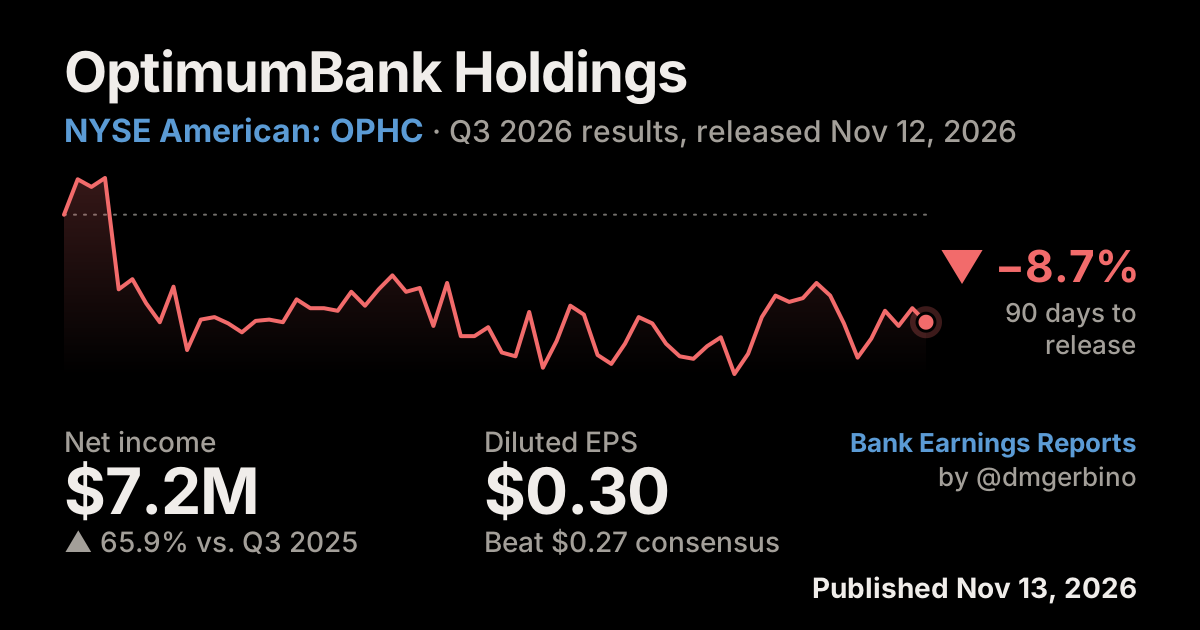
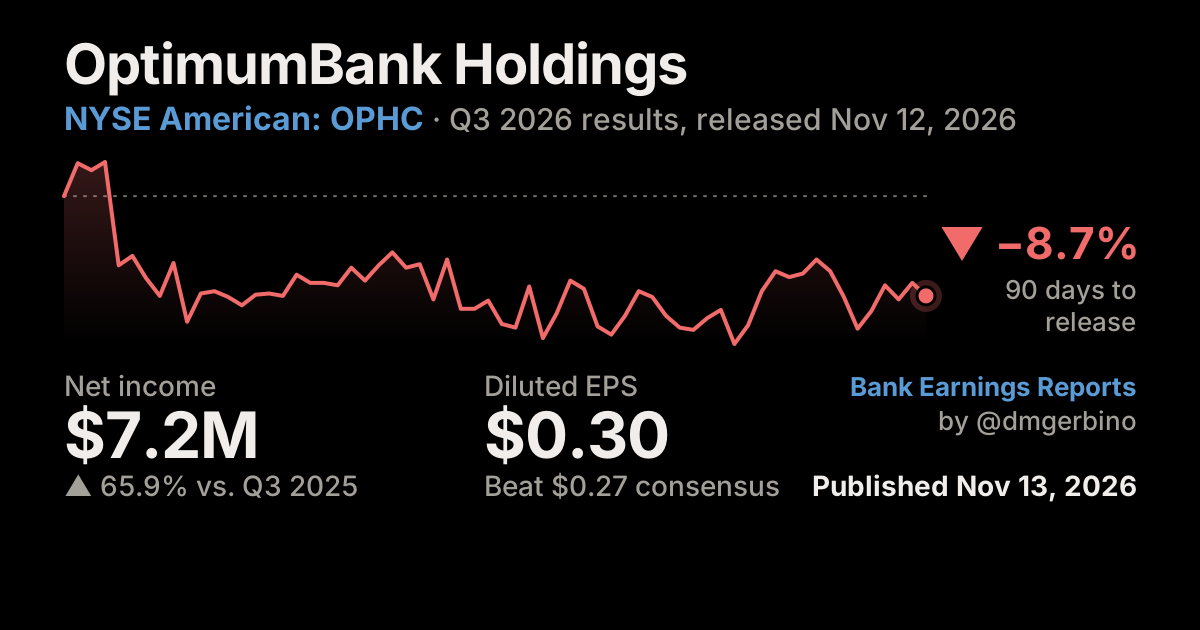
Keep the bottom of every share card clear for X
X overlays the site domain on the bottom of large-image cards. Move all
card content above a 96 px empty band (SAFE_BOTTOM in scripts/og.py), refuse
renders that enter it, and add a card version to og:image so caches refresh.

diff --git a/wsbf-q3-2026/index.html b/wsbf-q3-2026/index.html
@@ -4,14 +4,14 @@
 <meta property="og:title" content="Waterstone Financial (WSBF) Q3 2026 earnings">
 <meta property="og:description" content="The margin rose a fifth straight quarter, but a mortgage loss cut EPS 20% and left Waterstone last of four Wisconsin peers">
 <meta property="og:url" content="https://dmgerbino.github.io/bank-earnings-reports/wsbf-q3-2026/">
-<meta property="og:image" content="https://dmgerbino.github.io/bank-earnings-reports/wsbf-q3-2026/og.png?v=2026-11-14">
+<meta property="og:image" content="https://dmgerbino.github.io/bank-earnings-reports/wsbf-q3-2026/og.png?v=2026-11-14-2">
 <meta property="og:image:width" content="1200">
 <meta property="og:image:height" content="630">
 <meta property="og:image:alt" content="Waterstone Financial Q3 2026 earnings card: price chart, net income and EPS">
 <meta name="twitter:card" content="summary_large_image">
 <meta name="twitter:title" content="Waterstone Financial (WSBF) Q3 2026 earnings">
 <meta name="twitter:description" content="The margin rose a fifth straight quarter, but a mortgage loss cut EPS 20% and left Waterstone last of four Wisconsin peers">
-<meta name="twitter:image" content="https://dmgerbino.github.io/bank-earnings-reports/wsbf-q3-2026/og.png?v=2026-11-14">
+<meta name="twitter:image" content="https://dmgerbino.github.io/bank-earnings-reports/wsbf-q3-2026/og.png?v=2026-11-14-2">
 <meta name="twitter:image:alt" content="Waterstone Financial Q3 2026 earnings card: price chart, net income and EPS">
 <!-- /pub:og -->
 </head><body>

diff --git a/pnc-q3-2026/index.html b/pnc-q3-2026/index.html
@@ -4,14 +4,14 @@
 <meta property="og:title" content="PNC Financial Services Group (PNC) Q3 2026 earnings">
 <meta property="og:description" content="PNC beat on EPS with the lowest charge-offs of six super-regional peers, but it carries the thinnest capital">
 <meta property="og:url" content="https://dmgerbino.github.io/bank-earnings-reports/pnc-q3-2026/">
-<meta property="og:image" content="https://dmgerbino.github.io/bank-earnings-reports/pnc-q3-2026/og.png?v=2026-11-13">
+<meta property="og:image" content="https://dmgerbino.github.io/bank-earnings-reports/pnc-q3-2026/og.png?v=2026-11-13-2">
 <meta property="og:image:width" content="1200">
 <meta property="og:image:height" content="630">
 <meta property="og:image:alt" content="PNC Financial Services Group Q3 2026 earnings card: price chart, net income and EPS">
 <meta name="twitter:card" content="summary_large_image">
 <meta name="twitter:title" content="PNC Financial Services Group (PNC) Q3 2026 earnings">
 <meta name="twitter:description" content="PNC beat on EPS with the lowest charge-offs of six super-regional peers, but it carries the thinnest capital">
-<meta name="twitter:image" content="https://dmgerbino.github.io/bank-earnings-reports/pnc-q3-2026/og.png?v=2026-11-13">
+<meta name="twitter:image" content="https://dmgerbino.github.io/bank-earnings-reports/pnc-q3-2026/og.png?v=2026-11-13-2">
 <meta name="twitter:image:alt" content="PNC Financial Services Group Q3 2026 earnings card: price chart, net income and EPS">
 <!-- /pub:og -->
 </head><body>

diff --git a/byfc-q3-2026/index.html b/byfc-q3-2026/index.html
@@ -4,14 +4,14 @@
 <meta property="og:title" content="Broadway Financial (BYFC) Q3 2026 earnings">
 <meta property="og:description" content="Deposits grew 31% in a year, but Broadway had the thinnest margin and second-highest cost ratio among similar-size peers">
 <meta property="og:url" content="https://dmgerbino.github.io/bank-earnings-reports/byfc-q3-2026/">
-<meta property="og:image" content="https://dmgerbino.github.io/bank-earnings-reports/byfc-q3-2026/og.png?v=2026-11-14">
+<meta property="og:image" content="https://dmgerbino.github.io/bank-earnings-reports/byfc-q3-2026/og.png?v=2026-11-14-2">
 <meta property="og:image:width" content="1200">
 <meta property="og:image:height" content="630">
 <meta property="og:image:alt" content="Broadway Financial Q3 2026 earnings card: price chart, net income and EPS">
 <meta name="twitter:card" content="summary_large_image">
 <meta name="twitter:title" content="Broadway Financial (BYFC) Q3 2026 earnings">
 <meta name="twitter:description" content="Deposits grew 31% in a year, but Broadway had the thinnest margin and second-highest cost ratio among similar-size peers">
-<meta name="twitter:image" content="https://dmgerbino.github.io/bank-earnings-reports/byfc-q3-2026/og.png?v=2026-11-14">
+<meta name="twitter:image" content="https://dmgerbino.github.io/bank-earnings-reports/byfc-q3-2026/og.png?v=2026-11-14-2">
 <meta name="twitter:image:alt" content="Broadway Financial Q3 2026 earnings card: price chart, net income and EPS">
 <!-- /pub:og -->
 </head><body>

diff --git a/pnbk-q3-2026/index.html b/pnbk-q3-2026/index.html
@@ -4,14 +4,14 @@
 <meta property="og:title" content="Patriot National Bancorp (PNBK) Q3 2026 earnings">
 <meta property="og:description" content="Net interest income more than doubled, but expenses still ate 94 cents of every revenue dollar">
 <meta property="og:url" content="https://dmgerbino.github.io/bank-earnings-reports/pnbk-q3-2026/">
-<meta property="og:image" content="https://dmgerbino.github.io/bank-earnings-reports/pnbk-q3-2026/og.png?v=2026-11-13">
+<meta property="og:image" content="https://dmgerbino.github.io/bank-earnings-reports/pnbk-q3-2026/og.png?v=2026-11-13-2">
 <meta property="og:image:width" content="1200">
 <meta property="og:image:height" content="630">
 <meta property="og:image:alt" content="Patriot National Bancorp Q3 2026 earnings card: price chart, net income and EPS">
 <meta name="twitter:card" content="summary_large_image">
 <meta name="twitter:title" content="Patriot National Bancorp (PNBK) Q3 2026 earnings">
 <meta name="twitter:description" content="Net interest income more than doubled, but expenses still ate 94 cents of every revenue dollar">
-<meta name="twitter:image" content="https://dmgerbino.github.io/bank-earnings-reports/pnbk-q3-2026/og.png?v=2026-11-13">
+<meta name="twitter:image" content="https://dmgerbino.github.io/bank-earnings-reports/pnbk-q3-2026/og.png?v=2026-11-13-2">
 <meta name="twitter:image:alt" content="Patriot National Bancorp Q3 2026 earnings card: price chart, net income and EPS">
 <!-- /pub:og -->
 </head><body>

diff --git a/ophc-q3-2026/index.html b/ophc-q3-2026/index.html
@@ -4,14 +4,14 @@
 <meta property="og:title" content="OptimumBank Holdings (OPHC) Q3 2026 earnings">
 <meta property="og:description" content="Record quarter beat the Street, and OPHC led every Florida peer on growth, margin and efficiency">
 <meta property="og:url" content="https://dmgerbino.github.io/bank-earnings-reports/ophc-q3-2026/">
-<meta property="og:image" content="https://dmgerbino.github.io/bank-earnings-reports/ophc-q3-2026/og.png?v=2026-11-13">
+<meta property="og:image" content="https://dmgerbino.github.io/bank-earnings-reports/ophc-q3-2026/og.png?v=2026-11-13-2">
 <meta property="og:image:width" content="1200">
 <meta property="og:image:height" content="630">
 <meta property="og:image:alt" content="OptimumBank Holdings Q3 2026 earnings card: price chart, net income and EPS">
 <meta name="twitter:card" content="summary_large_image">
 <meta name="twitter:title" content="OptimumBank Holdings (OPHC) Q3 2026 earnings">
 <meta name="twitter:description" content="Record quarter beat the Street, and OPHC led every Florida peer on growth, margin and efficiency">
-<meta name="twitter:image" content="https://dmgerbino.github.io/bank-earnings-reports/ophc-q3-2026/og.png?v=2026-11-13">
+<meta name="twitter:image" content="https://dmgerbino.github.io/bank-earnings-reports/ophc-q3-2026/og.png?v=2026-11-13-2">
 <meta name="twitter:image:alt" content="OptimumBank Holdings Q3 2026 earnings card: price chart, net income and EPS">
 <!-- /pub:og -->
 </head><body>

diff --git a/index.html b/index.html
@@ -9,14 +9,14 @@
 <meta property="og:title" content="Bank Earnings Reports">
 <meta property="og:description" content="Quarterly earnings from U.S. banks, each with a report, an infographic and a short narrated video.">
 <meta property="og:url" content="https://dmgerbino.github.io/bank-earnings-reports/">
-<meta property="og:image" content="https://dmgerbino.github.io/bank-earnings-reports/og.png">
+<meta property="og:image" content="https://dmgerbino.github.io/bank-earnings-reports/og.png?v=2">
 <meta property="og:image:width" content="1200">
 <meta property="og:image:height" content="630">
 <meta property="og:image:alt" content="Bank Earnings Reports by @dmgerbino">
 <meta name="twitter:card" content="summary_large_image">
 <meta name="twitter:title" content="Bank Earnings Reports">
 <meta name="twitter:description" content="Quarterly earnings from U.S. banks, each with a report, an infographic and a short narrated video.">
-<meta name="twitter:image" content="https://dmgerbino.github.io/bank-earnings-reports/og.png">
+<meta name="twitter:image" content="https://dmgerbino.github.io/bank-earnings-reports/og.png?v=2">
 <meta name="twitter:image:alt" content="Bank Earnings Reports by @dmgerbino">
 <!-- /pub:og -->
 <style>

diff --git a/scripts/og.py b/scripts/og.py
@@ -29,6 +29,13 @@ ROOT = os.path.dirname(os.path.dirname(os.path.abspath(__file__)))
 PRICES = os.path.join(ROOT, "data", "prices")
 W, H = 1200, 630
 PAD = 64
+# X (Twitter) lays the site domain over the bottom of a summary_large_image card,
+# so the bottom SAFE_BOTTOM px stay plain background: no text, no chart.
+SAFE_BOTTOM = 96
+CONTENT_BOTTOM = H - SAFE_BOTTOM
+# Bump when the card layout changes, so the ?v= on og:image changes and social
+# sites fetch the new image instead of their cached copy.
+CARD_VERSION = "2"
 WINDOW_DAYS = 90
 
 # Site dark tokens (index.html), pure black per the branding guide.
@@ -50,9 +57,23 @@ def text(x, y, s, size, fill=FG, weight=400, anchor="start", ls=0):
 
 
 def svg_doc(body):
+    check_safe_band(body)
     return (f'<svg xmlns="http://www.w3.org/2000/svg" width="{W}" height="{H}" '
             f'viewBox="0 0 {W} {H}"><rect width="{W}" height="{H}" fill="{BG}"/>'
             f'{body}</svg>')
+
+
+def check_safe_band(body):
+    """Refuse any text baseline or chart point inside the bottom band X covers."""
+    import re
+    limit = CONTENT_BOTTOM - 12  # leave room for descenders
+    ys = [float(y) for y in re.findall(r'<text[^>]* y="([\d.]+)"', body)]
+    ys += [float(y) for y in re.findall(r'\by[12]?="([\d.]+)"', body)]
+    ys += [float(y) for y in re.findall(r'[ML]\s*[\d.]+,([\d.]+)', body)]
+    ys += [float(c) + float(r) for c, r in re.findall(r'cy="([\d.]+)" r="([\d.]+)"', body)]
+    bad = [y for y in ys if y > limit]
+    if bad:
+        raise ValueError(f"Card content at y={max(bad):.0f} enters the bottom {SAFE_BOTTOM}px kept clear for X.")
 
 
 def fmt_date(d):
@@ -74,15 +95,15 @@ def render(svg, png_path):
 # ---------------------------------------------------------------- brand card
 def brand_card():
     b = []
-    b.append(f'<rect x="{PAD}" y="{PAD}" width="8" height="250" rx="4" fill="{ACCENT}"/>')
-    b.append(text(PAD + 40, 150, "Bank Earnings", 104, weight=700, ls=-2))
-    b.append(text(PAD + 40, 262, "Reports", 104, weight=700, ls=-2))
-    b.append(text(PAD + 40, 350, "U.S. bank earnings, charted against", 40, MUTED))
-    b.append(text(PAD + 40, 400, "estimates and peers.", 40, MUTED))
-    b.append(text(PAD + 40, 468, "Report  ·  Infographic  ·  Narrated video", 30, FG, 500))
-    b.append(f'<line x1="{PAD}" y1="520" x2="{W-PAD}" y2="520" stroke="{RULE}" stroke-width="2"/>')
-    b.append(text(PAD, 578, "By @dmgerbino", 30, FG, 600))
-    b.append(text(W - PAD, 578, SITE, 30, ACCENT, 500, "end"))
+    b.append(f'<rect x="{PAD}" y="52" width="8" height="226" rx="4" fill="{ACCENT}"/>')
+    b.append(text(PAD + 40, 134, "Bank Earnings", 100, weight=700, ls=-2))
+    b.append(text(PAD + 40, 242, "Reports", 100, weight=700, ls=-2))
+    b.append(text(PAD + 40, 318, "U.S. bank earnings, charted against", 38, MUTED))
+    b.append(text(PAD + 40, 364, "estimates and peers.", 38, MUTED))
+    b.append(text(PAD + 40, 420, "Report  ·  Infographic  ·  Narrated video", 30, FG, 500))
+    b.append(f'<line x1="{PAD}" y1="448" x2="{W-PAD}" y2="448" stroke="{RULE}" stroke-width="2"/>')
+    b.append(text(PAD, 500, "By @dmgerbino", 30, FG, 600))
+    b.append(text(W - PAD, 500, SITE, 30, ACCENT, 500, "end"))
     return svg_doc("".join(b))
 
 
@@ -142,14 +163,14 @@ def bank_card(c, updated=None):
     """c: name, exchange, ticker, quarter, released (date), published (date), closes,
     net_income, net_income_note, [net_income_label], [eps, eps_note, eps_label]."""
     b = []
-    b.append(text(PAD, 92, c["name"], round(fit(c["name"], 56, W - 2 * PAD), 1), weight=700, ls=-1))
-    b.append(f'<text x="{PAD}" y="142" font-family="{FONT}" font-size="32">'
+    b.append(text(PAD, 84, c["name"], round(fit(c["name"], 56, W - 2 * PAD), 1), weight=700, ls=-1))
+    b.append(f'<text x="{PAD}" y="130" font-family="{FONT}" font-size="32">'
              f'<tspan fill="{ACCENT}" font-weight="600">{escape(c["exchange"])}: {escape(c["ticker"])}</tspan>'
              f'<tspan fill="{MUTED}" font-size="30"> · {escape(c["quarter"])} results, released '
              f'{escape(fmt_date(c["released"]))}</tspan></text>')
 
     # Sparkline, with its change label on the right.
-    sx0, sy0, sw, sh = PAD, 178, W - 2 * PAD - 210, 196
+    sx0, sy0, sw, sh = PAD, 162, W - 2 * PAD - 210, 182
     spark, chg, col = sparkline(c["closes"], sx0, sy0, sw, sh)
     b.append(spark)
     arrow = "▲" if chg >= 0 else "▼"
@@ -158,7 +179,7 @@ def bank_card(c, updated=None):
     b.append(text(W - PAD, sy0 + sh / 2 + 78, "release", 26, MUTED, 400, "end"))
 
     # Numbers: net income always, EPS vs consensus only when one exists.
-    ny = 452
+    ny = 396
     b.append(text(PAD, ny, c.get("net_income_label") or "Net income", 28, MUTED, 500))
     b.append(text(PAD, ny + 62, c["net_income"], 64, FG, 700, ls=-1))
     b.append(text(PAD, ny + 100, c["net_income_note"], 28, MUTED))
@@ -169,7 +190,7 @@ def bank_card(c, updated=None):
         b.append(text(ex, ny + 100, c.get("eps_note", ""), 28, MUTED))
 
     # Footer: dates and site.
-    fy = 598
+    fy = ny + 100  # level with the net income note line
     if updated:
         b.append(text(W - PAD, fy - 34, f"Updated {fmt_date(updated)}", 28, FG, 600, "end"))
         b.append(text(W - PAD, fy, f'First published {fmt_date(c["published"])}', 24, MUTED, 400, "end"))

diff --git a/scripts/publish.py b/scripts/publish.py
@@ -217,9 +217,16 @@ def bank_og(slug, row):
               f"Run: python3 scripts/og.py {slug}", file=sys.stderr)
         return ""
     v = row.get("updated") or row.get("added") or row["released"]
+    v = f"{v}-{card_version()}"
     title = f'{row["bank"]} ({row["ticker"]}) {row["quarter"]} earnings'
     return og_tags(title, row["headline"], f"{SITE_URL}{slug}/", f"{SITE_URL}{slug}/og.png?v={v}",
                    f'{row["bank"]} {row["quarter"]} earnings card: price chart, net income and EPS')
+
+
+def card_version():
+    """CARD_VERSION from scripts/og.py, read as text so pages build without cairosvg."""
+    m = re.search(r'^CARD_VERSION = "([^"]+)"', open(os.path.join(ROOT, "scripts", "og.py")).read(), re.M)
+    return m.group(1) if m else "1"
 
 
 def render_cards(rows, slugs=(), force=False):
@@ -257,7 +264,7 @@ def build_index(rows):
 <meta name="viewport" content="width=device-width,initial-scale=1,viewport-fit=cover">
 <title>{SITE_TITLE}</title>
 <meta name="description" content="{SITE_DESC}">
-{og_tags(SITE_TITLE, SITE_DESC, SITE_URL, SITE_URL + "og.png", "Bank Earnings Reports by @dmgerbino", "website")}
+{og_tags(SITE_TITLE, SITE_DESC, SITE_URL, SITE_URL + "og.png?v=" + card_version(), "Bank Earnings Reports by @dmgerbino", "website")}
 <style>
 :root{{--bg:#F6F7F9;--surface:#FFFFFF;--fg:#11161C;--muted:#56606C;--rule:#D9DEE4;--accent:#2A6DB0;color-scheme:light}}
 @media (prefers-color-scheme:dark){{:root:not([data-theme="light"]){{--bg:#000000;--surface:#0D0F12;--fg:#F0EDEA;--muted:#A39F99;--rule:#25292E;--accent:#5B9BD5;color-scheme:dark}}}}

diff --git a/README.md b/README.md
@@ -64,7 +64,9 @@ Rules for the card's figures, all checked against the bank's own release:
 - `--eps`, `--eps-label`, `--eps-note`: only when a current pre-release consensus exists for the quarter, on the same basis (`Adjusted EPS` vs an adjusted consensus, `Diluted EPS` vs a GAAP one). Leave them out when there is none or it looks stale; `--no-eps` drops a line given earlier.
 - `--prices`: a CSV with header `date,close` covering at least the 90 calendar days to the release date. Shell downloads from most price sites are blocked here, so read the closes from Yahoo Finance's historical prices page (or another reliable public source), save them as the CSV, and add a row to `data/prices/SOURCES.md`.
 
-Rendering needs `cairosvg` (`python3 -m pip install cairosvg`) and the Inter font. `python3 scripts/publish.py og` re-renders every card and rebuilds the pages; `--slug <slug>` re-renders one. `build` renders any card that is missing. Social sites cache images, so the tags add `?v=<date>` to the image URL; it changes when a report is updated.
+Keep the bottom of every card empty. X lays the site domain over the bottom of a large-image card, so `SAFE_BOTTOM` in `scripts/og.py` (96 px of the 630) stays plain background: no text, no chart. The generator refuses to render a card that puts anything there. When you change the card layout, bump `CARD_VERSION` in `scripts/og.py`; it goes into the `?v=` on every `og:image`, so X and other sites fetch the new image instead of a cached one.
+
+Rendering needs `cairosvg` (`python3 -m pip install cairosvg`) and the Inter font. `python3 scripts/publish.py og` re-renders every card and rebuilds the pages; `--slug <slug>` re-renders one. `build` renders any card that is missing. Social sites cache images, so the tags add `?v=<date>` to the image URL; it changes when a report is updated or the card version changes.
 
 To fix only the Method and sources section of a bank already on the site: `python3 scripts/publish.py method --slug ophc-q3-2026 --method "..." --source "Label|URL" ...`, then commit and push.
 
